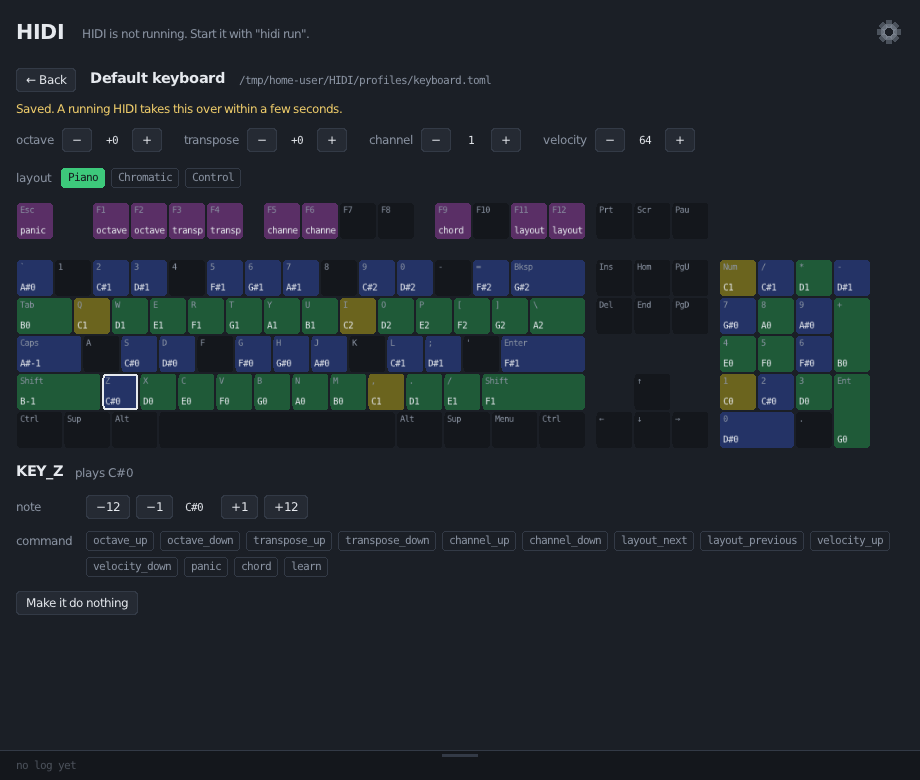
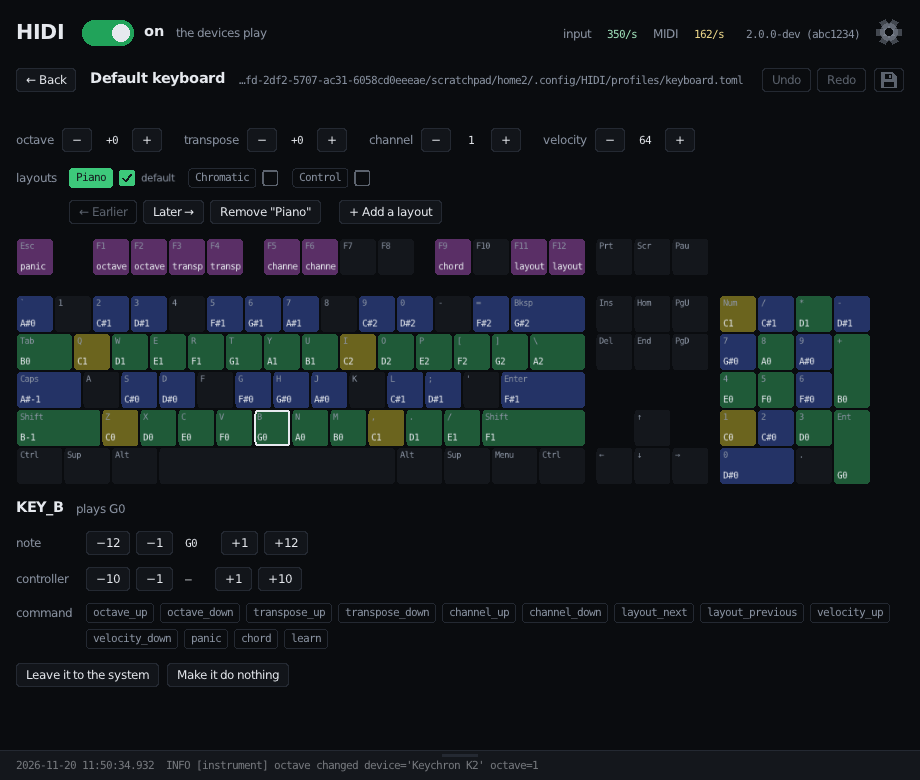
Documentation and pictures for the darker window and the profile editor
The README describes the curves, saving and taking back in the profile
editor, and the layouts. The roadmap records what was asked for and done.
All pictures of the window are new.

Claude-Session: https://claude.ai/code/session_01BSpi87DutHCzCjSX2Ru5Rd

diff --git a/README.md b/README.md
@@ -164,8 +164,11 @@ turns HIDI off and on" in the
 
 ## The window
 
-Each instrument has two lines: its name and profile, and its state. The
-numbers for input and MIDI turn green while something comes in or goes out.
+Each instrument has two lines: its name and profile, and its state. Behind
+them runs a curve of the last twelve seconds: green for what came in from
+the device, yellow for what went out as MIDI. The two numbers for it take
+the same colours while they are not zero, and the top of the window has them
+for all instruments together.
 The switches "input" and "output" beside "show" add what the device reports
 and the notes that are played because of it; the window remembers them for
 every device.
@@ -201,8 +204,9 @@ start.
 - "Change" beside the toggle combination takes a new one from the keyboard:
   press the keys together and let go. One key alone works too, and can then
   be made to work by a tap.
-- "Devices that play" chooses which devices become instruments: every one
-  except those you tick, or only those you tick. The list has the devices
+- "Devices that play" chooses which devices become instruments: with
+  "blacklist" every one except those you tick, with "whitelist" only those
+  you tick. The list has the devices
   that are connected and, in grey, those HIDI has seen before.
 - "Also send to MIDI ports" lists the MIDI ports that exist. A click on one
   makes every instrument send there as well.
@@ -231,11 +235,26 @@ reversed, and a dead zone.
 
 ![Changing a keyboard's profile](docs/images/gui-profile.png)
 
-Every change is written to the file at once, as a change of that one line:
-notes you wrote into the file by hand stay. A running HIDI follows within a
-few seconds. Program changes, keys that need a modifier, the two directions
-of an axis bound apart, and the options of a note are shown where they apply
-and changed in the file. So are adding a layout and making a new profile.
+Nothing is written until you save, with the disk in the corner or Ctrl+S.
+The disk is yellow while there is something to save. A running HIDI plays
+with the profile as it is shown, saved or not, so a change can be tried at
+once; the file counts again when you take the changes back. "Undo" and
+"Redo", or Ctrl+Z and Ctrl+Y, go back and forth through the changes. If you
+leave the page with changes on it they stay there, and a yellow dot on the
+way back to it says so.
+
+The row of layouts chooses the one that is shown. The box beside a layout
+makes it the one an instrument starts with. Below it are the buttons that
+move the layout earlier or later in the row the player steps through, remove
+it, and add a new one.
+
+The keys for all this reach the window only while the keyboard is not
+HIDI's alone: turn HIDI off, or use the buttons.
+
+Saving changes the lines that changed and nothing else: notes you wrote into
+the file by hand stay. Program changes, keys that need a modifier, the two
+directions of an axis bound apart, and the options of a note are shown where
+they apply and changed in the file. So is making a new profile.
 
 The window needs 64-bit Linux or Windows with OpenGL 3.3.
 

diff --git a/docs/roadmap.md b/docs/roadmap.md
@@ -109,7 +109,10 @@ To be decided:
 
 - The rest of configuring in the window: the two halves of an axis bound
   apart, program changes, keys with modifiers, the options of a note,
-  adding and removing layouts, and a new profile for a device.
+  renaming a layout, and a new profile for a device.
+- A profile that is tried and not saved stays in use if the window ends
+  without a word, by a crash for one, until its file changes or HIDI
+  starts again. A window that is closed takes it back.
 - A running HIDI follows changed `connect` ports, and the switch and the
   address of OpenRGB, only at its next start.
 - Two keyboards with lights are written one after the other, so each
@@ -283,6 +286,24 @@ Found and left as it is, by choice:
 
 Not tried: anything of this on Windows, and the lights on a real keyboard;
 the hub was tried against servers made for the tests, one of them slow.
+
+Later the same day, into the same pull request:
+
+| Asked for | What was done |
+|---|---|
+| A middle click on the icon turns HIDI off and on. | Linux did; Windows does now. |
+| A much darker window. | Near black, with the panels a step above it. |
+| Behind the two lines of an instrument, how much came in and went out, input green and MIDI yellow; the numbers tinted alike, in the terminal too. | The rates are worked out ten times a second over the second that just ended, and the window keeps twelve seconds of them per instrument. The status lines of the terminal colour the two numbers the same way. |
+| The profile editor saves when asked, takes changes back, and a running HIDI plays with what is not saved. | Changes are kept in the window. A disk saves, yellow while there is something to save; Undo and Redo as buttons and as Ctrl+Z and Ctrl+Y. What is shown and not saved is given to HIDI over the control socket (`preview`) and stands in for the file until the file changes. A page left with changes keeps them, and a yellow dot marks the way back. |
+| Layouts can be added, removed, put in another order, and one chosen to start with. | In the text of the file, like every other change: `config.AddLayout`, `RemoveLayout`, `MoveLayout`, and `layout` under `[defaults]`. |
+| The colours of what the keys do, at half strength in the main view. | Done. |
+| The settings open over the profile editor too. | The sheet lies over whatever is shown. |
+| "blacklist" and "whitelist" as the names of the two modes. | Done. |
+| Scrolling as a movement. | The target moves at once and the position follows it, by the time that passed and not by the frame: nine tenths of the way in 80 ms at any frame rate. In the instruments, the settings and the profile editor. |
+| What all instruments together take in and send, at the top. | Before the version. |
+
+Not tried: Windows; the keys of the editor with a keyboard HIDI has
+grabbed, which do not reach the window, as the page says.
 
 ## Done
 
